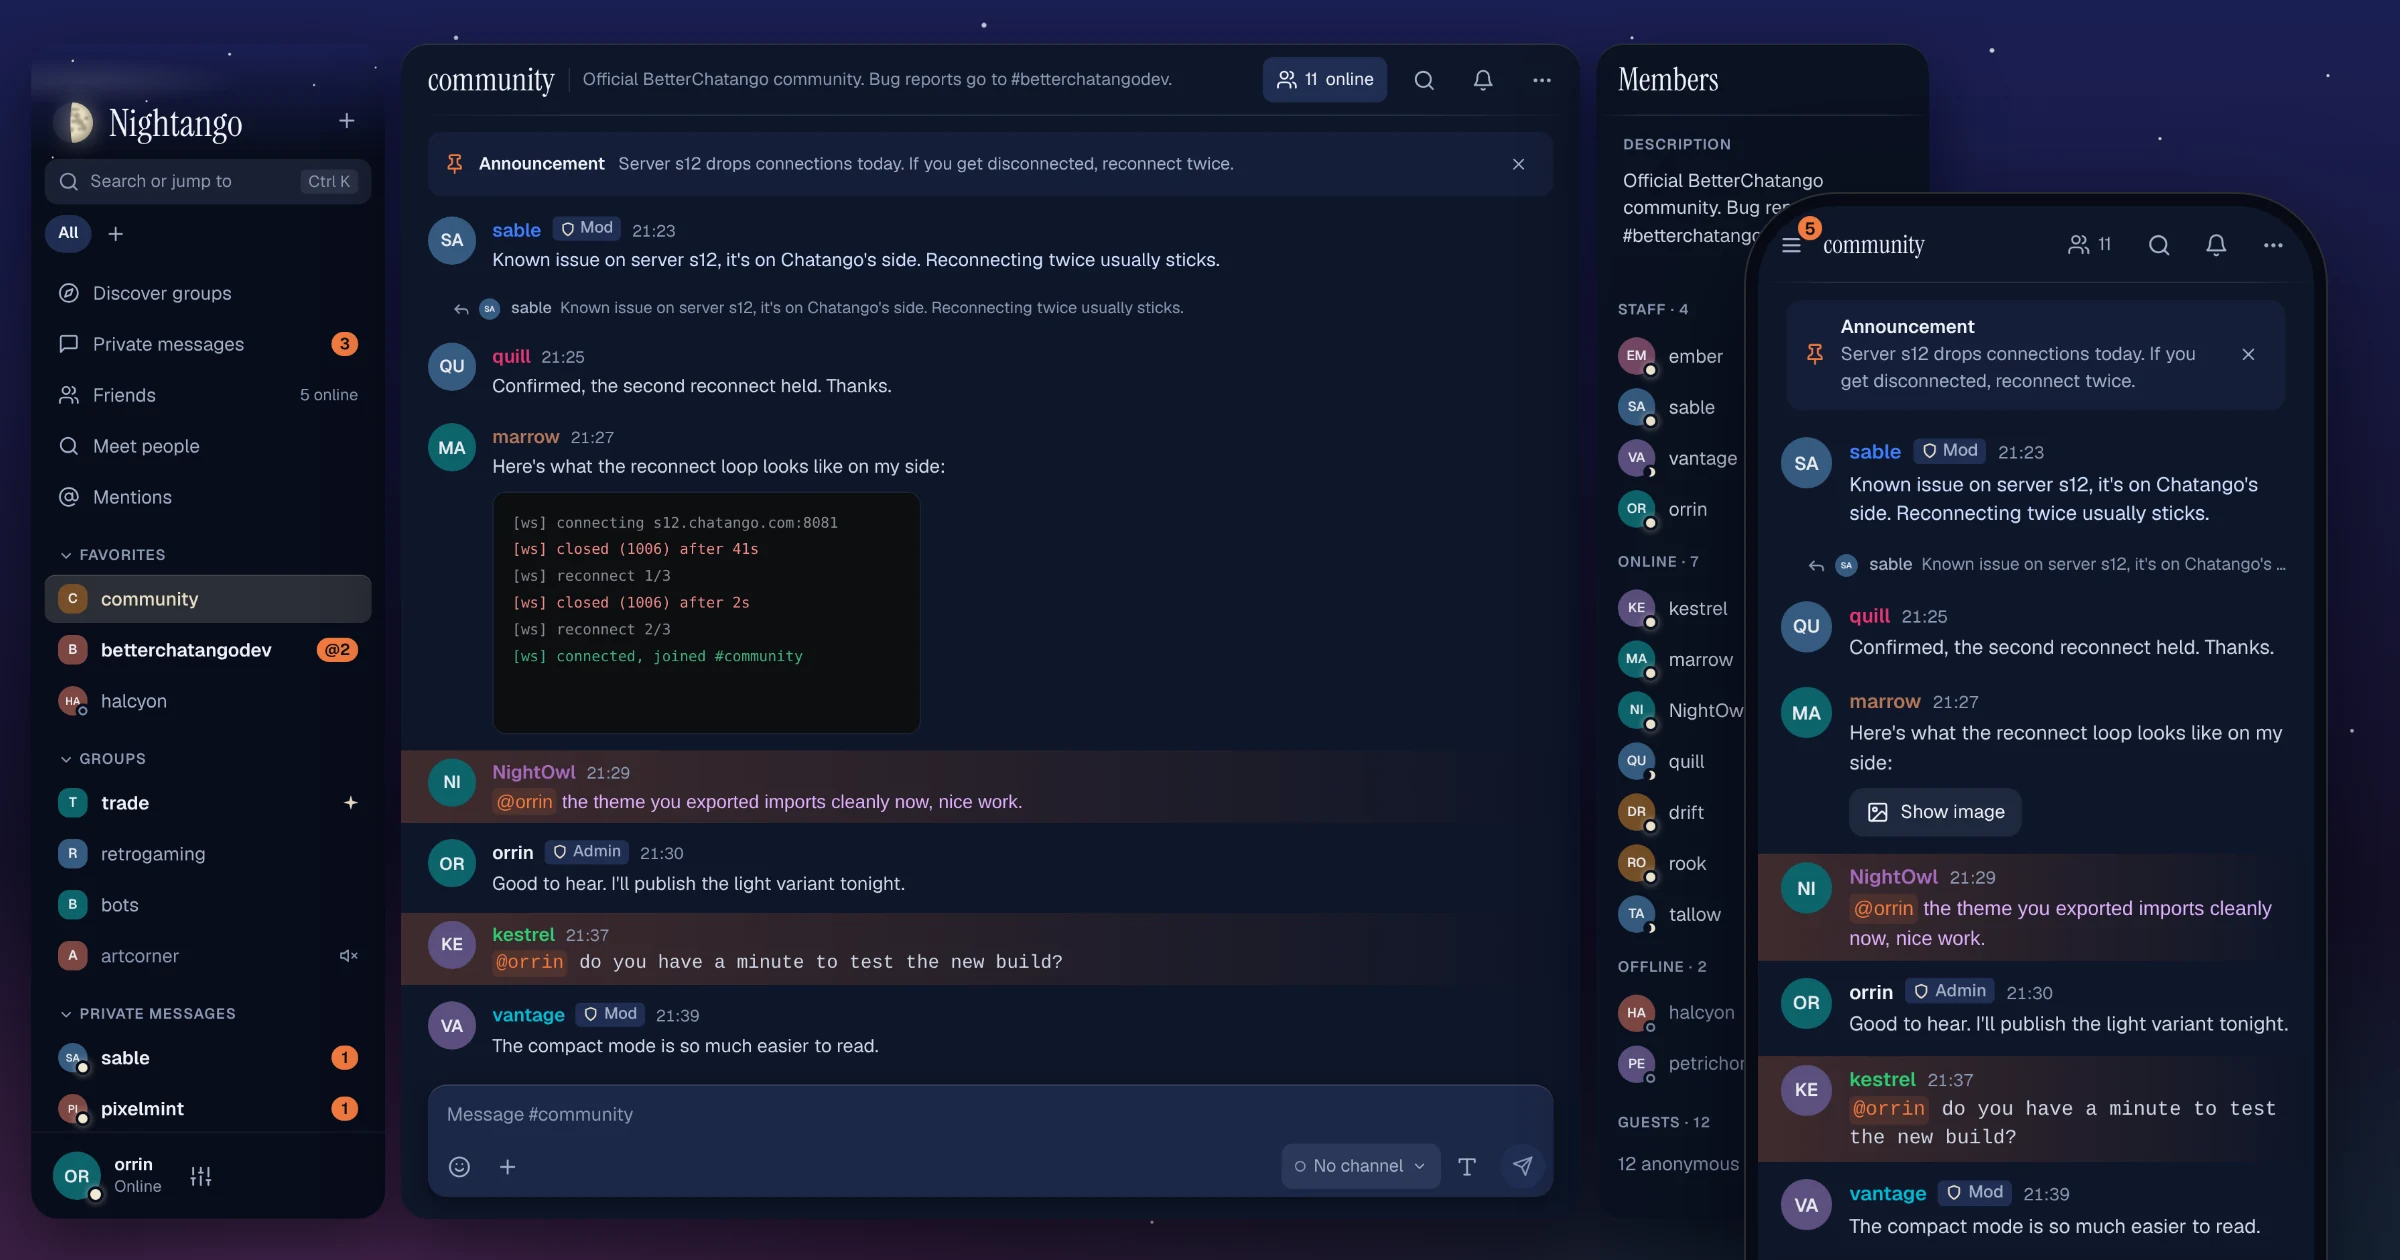
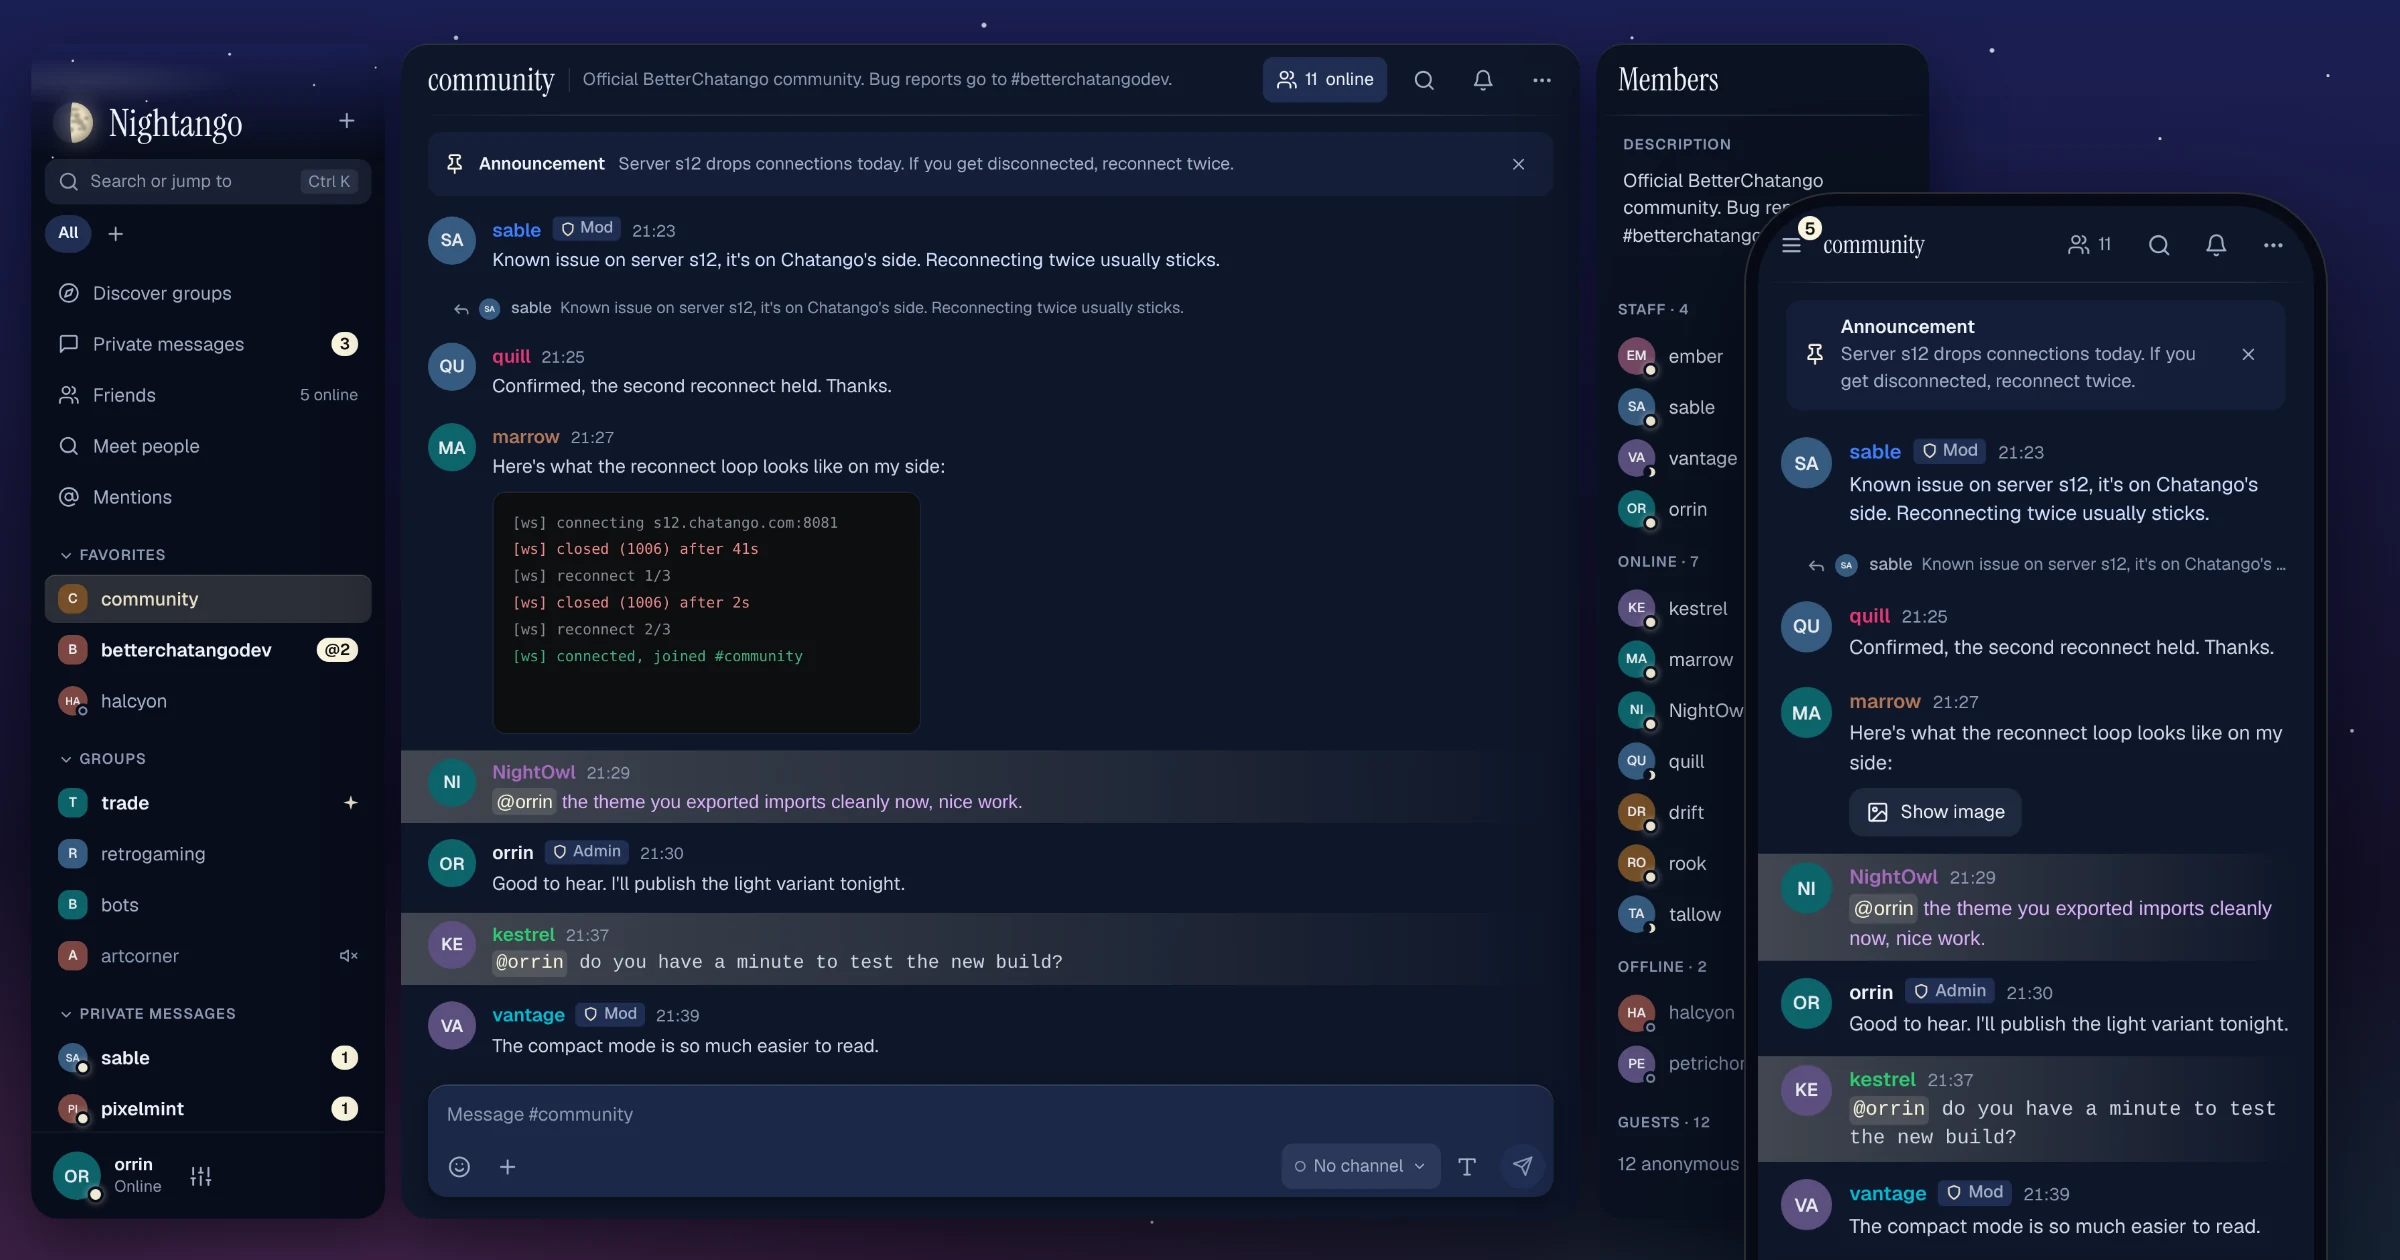
docs(readme): retake the screenshots with the default accents
The five pictures show the default look again: Moonlight at night,
Ember in the light half of the themes picture. The accent picture
gains the Moonlight navigation, seven in all.

diff --git a/README.md b/README.md
@@ -27,7 +27,7 @@ To update, open the file of the new release the same way: Tampermonkey shows its
 
 ![A Premium member's profile card](docs/readme/profile.webp)
 
-![The navigation in the six accent colors](docs/readme/customisation.webp)
+![The navigation in the seven accent colors](docs/readme/customisation.webp)
 
 ## Privacy
 
